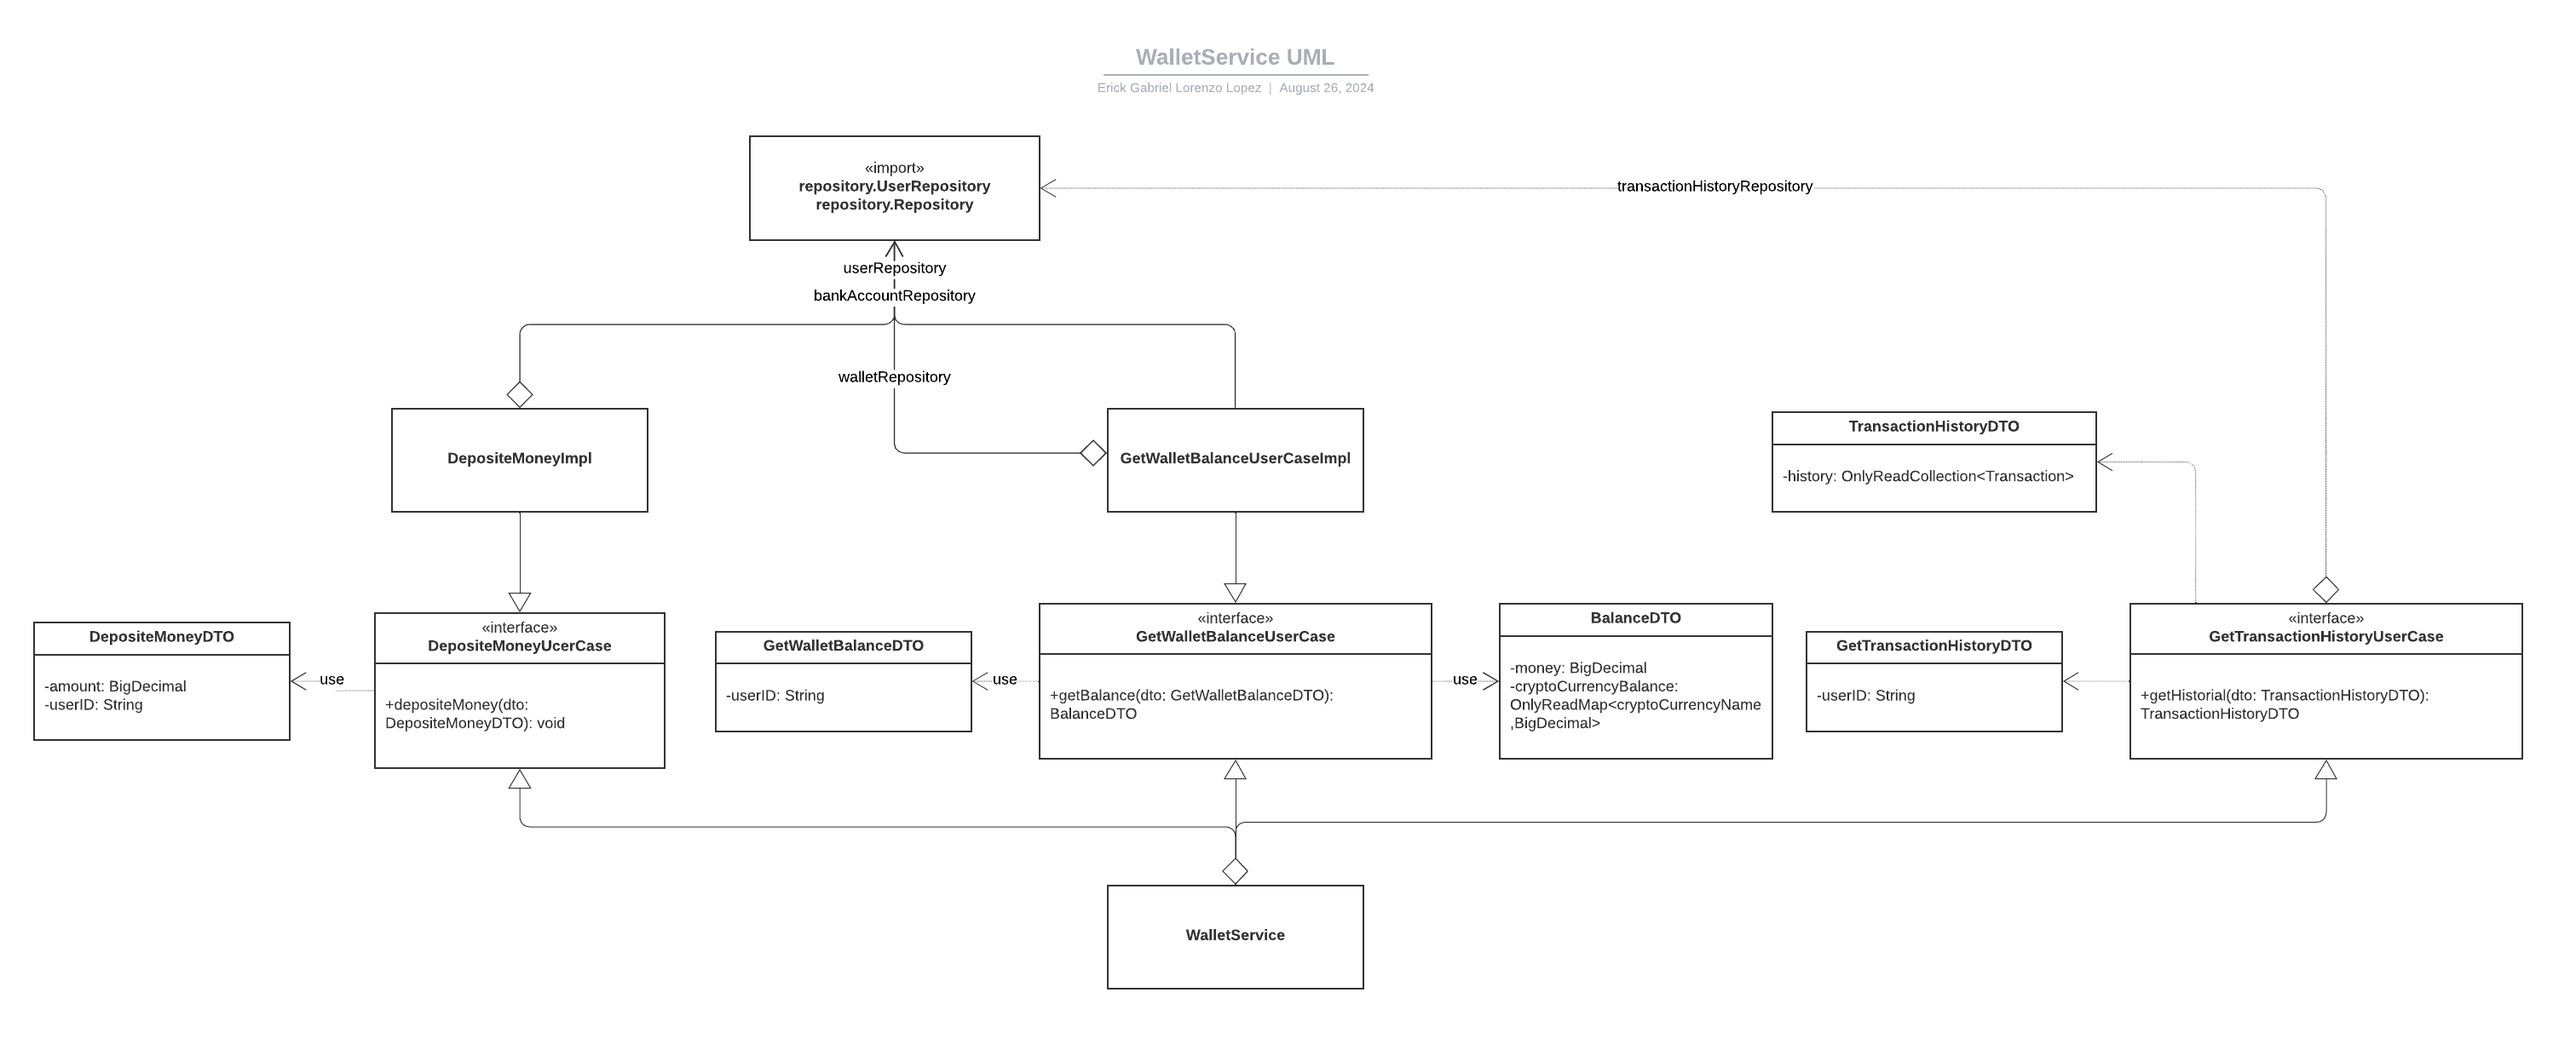
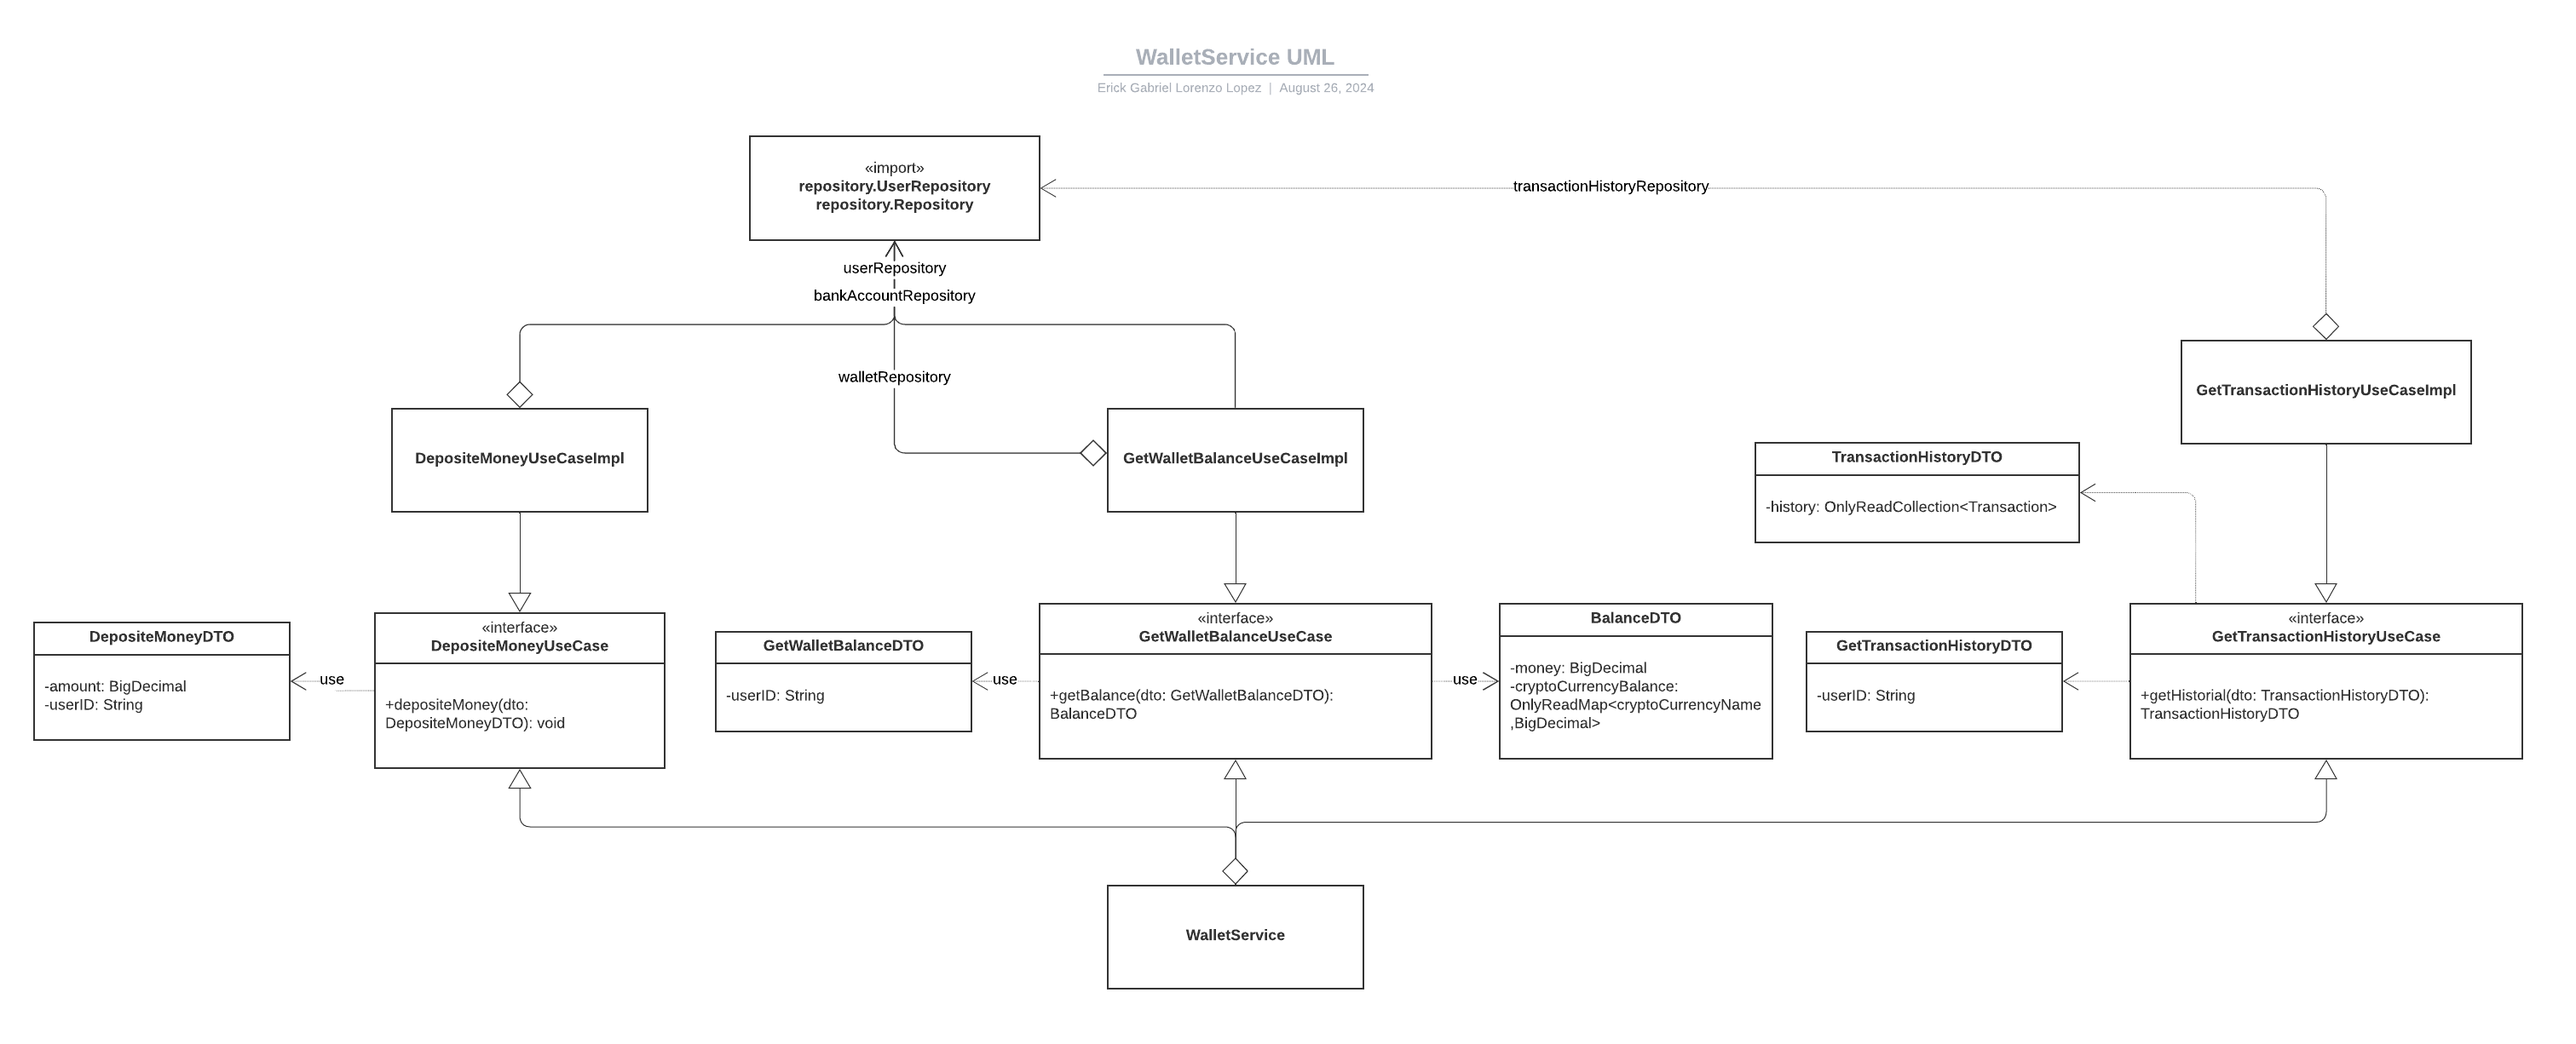
Refactor

diff --git a/criptoExchangeApplication/src/main/java/application/services/exchange/ExchangeService.java b/criptoExchangeApplication/src/main/java/application/services/exchange/ExchangeService.java
@@ -1,0 +1,37 @@
+package application.services.exchange;
+
+import application.dto.ExchangeCryptoCurrencyDTO;
+import application.dto.PlaceBuyOrderDTO;
+import application.dto.PlaceSaleOrderDTO;
+
+/**
+ *
+ * @author erillope
+ */
+public class ExchangeService implements ExchangeCryptoCurrenceUseCase, PlaceBuyOrderUseCase, PlaceSaleOrderUseCase{
+    private ExchangeCryptoCurrenceUseCase exchangeUseCase;
+    private PlaceBuyOrderUseCase placeBuyOrderUseCase;
+    private PlaceSaleOrderUseCase placeSaleOrderUseCase;
+
+    public ExchangeService(ExchangeCryptoCurrenceUseCase exchangeUseCase, PlaceBuyOrderUseCase placeBuyOrderUseCase, PlaceSaleOrderUseCase placeSaleOrderUseCase) {
+        this.exchangeUseCase = exchangeUseCase;
+        this.placeBuyOrderUseCase = placeBuyOrderUseCase;
+        this.placeSaleOrderUseCase = placeSaleOrderUseCase;
+    }
+
+    @Override
+    public void exchange(ExchangeCryptoCurrencyDTO dto) {
+        this.exchangeUseCase.exchange(dto);
+    }
+
+    @Override
+    public void placeBuyOrder(PlaceBuyOrderDTO dto) {
+        this.placeBuyOrderUseCase.placeBuyOrder(dto);
+    }
+
+    @Override
+    public void placeSaleOrder(PlaceSaleOrderDTO dto) {
+        this.placeSaleOrderUseCase.placeSaleOrder(dto);
+    }
+    
+}

diff --git a/criptoExchangeApplication/src/main/java/application/services/wallet/WalletService.java b/criptoExchangeApplication/src/main/java/application/services/wallet/WalletService.java
@@ -10,13 +10,13 @@ import application.dto.TransactionHistoryDTO;
  *
  * @author erillope
  */
-public class WalletService implements DepositeMoneyUserCase, GetTransactionHistoryUserCase, GetWalletBalanceUserCase{
-    private final DepositeMoneyUserCase depositeUserCase;
-    private final GetTransactionHistoryUserCase getHistoryUserCase;
-    private final GetWalletBalanceUserCase getBalanceUserCase;
+public class WalletService implements DepositeMoneyUseCase, GetTransactionHistoryUseCase, GetWalletBalanceUseCase{
+    private final DepositeMoneyUseCase depositeUserCase;
+    private final GetTransactionHistoryUseCase getHistoryUserCase;
+    private final GetWalletBalanceUseCase getBalanceUserCase;
 
-    public WalletService(DepositeMoneyUserCase depositeUserCase, 
-            GetTransactionHistoryUserCase getHistoryUserCase, GetWalletBalanceUserCase getBalanceUserCase) {
+    public WalletService(DepositeMoneyUseCase depositeUserCase, 
+            GetTransactionHistoryUseCase getHistoryUserCase, GetWalletBalanceUseCase getBalanceUserCase) {
         this.depositeUserCase = depositeUserCase;
         this.getHistoryUserCase = getHistoryUserCase;
         this.getBalanceUserCase = getBalanceUserCase;

diff --git a/criptoExchangeApplication/src/main/java/application/services/authentication/AuthenticationService.java b/criptoExchangeApplication/src/main/java/application/services/authentication/AuthenticationService.java
@@ -10,15 +10,15 @@ import models.user.User;
  *
  * @author erillope
  */
-public class AuthenticationService implements SignUpUserCase, SignInUserCase, SignOutUserCase{
+public class AuthenticationService implements SignUpUseCase, SignInUseCase, SignOutUseCase{
     private User signedUser;
-    private final SignUpUserCase signUpUserCase;
-    private final SignInUserCase signInUserCase;
-    private final SignOutUserCase signOutUserCase;
+    private final SignUpUseCase signUpUserCase;
+    private final SignInUseCase signInUserCase;
+    private final SignOutUseCase signOutUserCase;
     private final UserRepository userRepository;
 
-    public AuthenticationService(SignUpUserCase signUpUserCase, SignInUserCase signInUserCase, 
-            SignOutUserCase signOutUserCase, UserRepository userRepository) {
+    public AuthenticationService(SignUpUseCase signUpUserCase, SignInUseCase signInUserCase, 
+            SignOutUseCase signOutUserCase, UserRepository userRepository) {
         this.signUpUserCase = signUpUserCase;
         this.signInUserCase = signInUserCase;
         this.signOutUserCase = signOutUserCase;

diff --git a/criptoExchangeApplication/src/main/java/application/dto/PlaceBuyOrderDTO.java b/criptoExchangeApplication/src/main/java/application/dto/PlaceBuyOrderDTO.java
@@ -1,0 +1,31 @@
+package application.dto;
+
+import java.math.BigDecimal;
+import models.crypto.CryptoCurrencyName;
+
+/**
+ *
+ * @author erillope
+ */
+public class PlaceBuyOrderDTO {
+    private final CryptoCurrencyName cryptoName;
+    private final BigDecimal amount;
+    private final String UserID;
+    private final BigDecimal maxPrice;
+
+    public PlaceBuyOrderDTO(CryptoCurrencyName cryptoName, BigDecimal amount, String UserID, BigDecimal maxPrice) {
+        this.cryptoName = cryptoName;
+        this.amount = amount;
+        this.UserID = UserID;
+        this.maxPrice = maxPrice;
+    }
+    
+    public CryptoCurrencyName getCryptoName(){return cryptoName;}
+
+    public BigDecimal getAmount(){return amount;}
+
+    public String getUserID(){return UserID;}
+    
+    public BigDecimal getMaxPrice(){return maxPrice;}
+    
+}

diff --git a/criptoExchangeApplication/src/main/java/application/dto/PlaceSaleOrderDTO.java b/criptoExchangeApplication/src/main/java/application/dto/PlaceSaleOrderDTO.java
@@ -1,0 +1,30 @@
+package application.dto;
+
+import java.math.BigDecimal;
+import models.crypto.CryptoCurrencyName;
+
+/**
+ *
+ * @author erillope
+ */
+public class PlaceSaleOrderDTO {
+    private final CryptoCurrencyName cryptoName;
+    private final BigDecimal amount;
+    private final String UserID;
+    private final BigDecimal minPrice;
+
+    public PlaceSaleOrderDTO(CryptoCurrencyName cryptoName, BigDecimal amount, String UserID, BigDecimal minPrice) {
+        this.cryptoName = cryptoName;
+        this.amount = amount;
+        this.UserID = UserID;
+        this.minPrice = minPrice;
+    }
+    
+    public CryptoCurrencyName getCryptoName(){return cryptoName;}
+
+    public BigDecimal getAmount(){return amount;}
+
+    public String getUserID(){return UserID;}
+    
+    public BigDecimal getMinPrice(){return minPrice;}
+}

diff --git a/criptoExchangeApplication/src/main/java/application/dto/ExchangeCryptoCurrencyDTO.java b/criptoExchangeApplication/src/main/java/application/dto/ExchangeCryptoCurrencyDTO.java
@@ -1,0 +1,27 @@
+package application.dto;
+
+import java.math.BigDecimal;
+import models.crypto.CryptoCurrencyName;
+
+/**
+ *
+ * @author erillope
+ */
+public class ExchangeCryptoCurrencyDTO {
+    private final CryptoCurrencyName cryptoName;
+    private final BigDecimal amount;
+    private final String UserID;
+
+    public ExchangeCryptoCurrencyDTO(CryptoCurrencyName cryptoName, BigDecimal amount, String UserID) {
+        this.cryptoName = cryptoName;
+        this.amount = amount;
+        this.UserID = UserID;
+    }
+
+    public CryptoCurrencyName getCryptoName(){return cryptoName;}
+
+    public BigDecimal getAmount(){return amount;}
+
+    public String getUserID(){return UserID;}
+    
+}

diff --git a/criptoExchangeApplication/src/main/java/application/dto/AvailableCoinsDTO.java b/criptoExchangeApplication/src/main/java/application/dto/AvailableCoinsDTO.java
@@ -1,0 +1,18 @@
+package application.dto;
+
+import models.crypto.CryptoCurrencyName;
+import models.util.OnlyReadCollection;
+
+/**
+ *
+ * @author erillope
+ */
+public class AvailableCoinsDTO {
+    private final OnlyReadCollection<CryptoCurrencyName> cryptoCurrencyNames;
+    
+    public AvailableCoinsDTO(OnlyReadCollection<CryptoCurrencyName> cryptoCurrencyNames){
+        this.cryptoCurrencyNames = cryptoCurrencyNames;
+    }
+
+    public OnlyReadCollection<CryptoCurrencyName> getCryptoCurrencyNames(){return cryptoCurrencyNames;}
+}

diff --git a/criptoExchangeApplication/src/main/java/application/services/wallet/GetTransactionHistoryUseCase.java b/criptoExchangeApplication/src/main/java/application/services/wallet/GetTransactionHistoryUseCase.java
@@ -7,6 +7,6 @@ import application.dto.TransactionHistoryDTO;
  *
  * @author erillope
  */
-public interface GetTransactionHistoryUserCase {
+public interface GetTransactionHistoryUseCase {
     public TransactionHistoryDTO getHistory(GetTransactionHistoryDTO dto);
 }

diff --git a/criptoExchangeApplication/src/main/java/application/services/exchange/ExchangeCryptoCurrenceUseCase.java b/criptoExchangeApplication/src/main/java/application/services/exchange/ExchangeCryptoCurrenceUseCase.java
@@ -1,0 +1,11 @@
+package application.services.exchange;
+
+import application.dto.ExchangeCryptoCurrencyDTO;
+
+/**
+ *
+ * @author erillope
+ */
+public interface ExchangeCryptoCurrenceUseCase {
+    public void exchange(ExchangeCryptoCurrencyDTO dto);
+}

diff --git a/criptoExchangeApplication/src/main/java/application/services/wallet/GetWalletBalanceUseCase.java b/criptoExchangeApplication/src/main/java/application/services/wallet/GetWalletBalanceUseCase.java
@@ -7,6 +7,6 @@ import application.dto.GetWalletBalanceDTO;
  *
  * @author erillope
  */
-public interface GetWalletBalanceUserCase {
+public interface GetWalletBalanceUseCase {
     public BalanceDTO getBalance(GetWalletBalanceDTO dto);
 }

diff --git a/criptoExchangeApplication/src/main/java/application/services/exchange/PlaceSaleOrderUseCase.java b/criptoExchangeApplication/src/main/java/application/services/exchange/PlaceSaleOrderUseCase.java
@@ -1,0 +1,11 @@
+package application.services.exchange;
+
+import application.dto.PlaceSaleOrderDTO;
+
+/**
+ *
+ * @author erillope
+ */
+public interface PlaceSaleOrderUseCase {
+    public void placeSaleOrder(PlaceSaleOrderDTO dto);
+}

diff --git a/criptoExchangeApplication/src/main/java/application/services/exchange/PlaceBuyOrderUseCase.java b/criptoExchangeApplication/src/main/java/application/services/exchange/PlaceBuyOrderUseCase.java
@@ -1,0 +1,11 @@
+package application.services.exchange;
+
+import application.dto.PlaceBuyOrderDTO;
+
+/**
+ *
+ * @author erillope
+ */
+public interface PlaceBuyOrderUseCase {
+    public void placeBuyOrder(PlaceBuyOrderDTO dto);
+}
